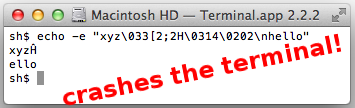
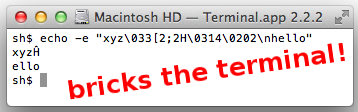
Correct misstatement about OS X Terminal.app

Changed region(s): [[0.0, 0.0278, 0.9915, 0.9722]]

diff --git a/index.html b/index.html
@@ -520,21 +520,28 @@ now.&#8221; <small>&mdash; actual USENIX peer review on reading the
 
 	<h4 class="callout">Evil escape sequences</h4>
 
-<p>Only Mosh and GNOME Terminal have a defensible rendering when Unicode
-mixes with an ECMA-48/ANSI escape sequence. The OS X Terminal unwisely
-tries to normalize its input before the vt500 state machine, causing
-it to crash on the following input! (This also means the OS X
-Terminal's interpretation of the incoming octet
-stream <strong>varies</strong> depending on how the incoming octets
-are split across TCP segments, because the normalization only looks
-ahead to available bytes.)</p>
+<p>Only Mosh and GNOME Terminal have a defensible rendering when
+Unicode mixes with an ECMA-48/ANSI escape sequence. The OS X Terminal
+unwisely tries to normalize its input before the vt500 state machine,
+causing it to misinterpret and become unusable after receiving the
+following input!* (This also means the OS X Terminal's interpretation
+of the incoming octet stream <strong>varies</strong> depending on how
+the incoming octets are split across TCP segments, because the
+normalization only looks ahead to available bytes.)</p>
+
+<p><small>* We earlier wrote that this misbehaving sequence "crashes"
+the OS X Terminal.app. This was mistaken&mdash;instead, Terminal.app
+interprets the escape sequence as shutting off keyboard input, and
+because of an unrelated bug in Terminal.app, it is not possible for
+the user to restore keyboard input by resetting the terminal from the
+menu.</small></p>
 
 	  <div class="row">
 	    <div class="span5 well"><img src="terminal-shots/unicode-and-escape-xterm.png.2.png"><br>xterm: circumflex on wrong letter.</div>
 	    <div class="span5 well"><img src="terminal-shots/unicode-and-escape-gnome.png.2.png"><br>GNOME Terminal's circumflex placement is defensible.</div>
 	  </div>
 	  <div class="row">
-	    <div class="span5 well"><img src="terminal-shots/unicode-and-escape-osx.png.2.png"><br>OS X Terminal.app applies circumflex to part of escape sequence, then crashes.</div>
+	    <div class="span5 well"><img src="terminal-shots/unicode-and-escape-osx.png.2.png"><br>OS X Terminal.app applies circumflex to part of escape sequence, then irretrievably shuts off keyboard input.</div>
 	    <div class="span5 well"><img src="terminal-shots/unicode-and-escape-mosh.png.2.png"><br>Mosh gets this one right.</div>
 	  </div>
 
